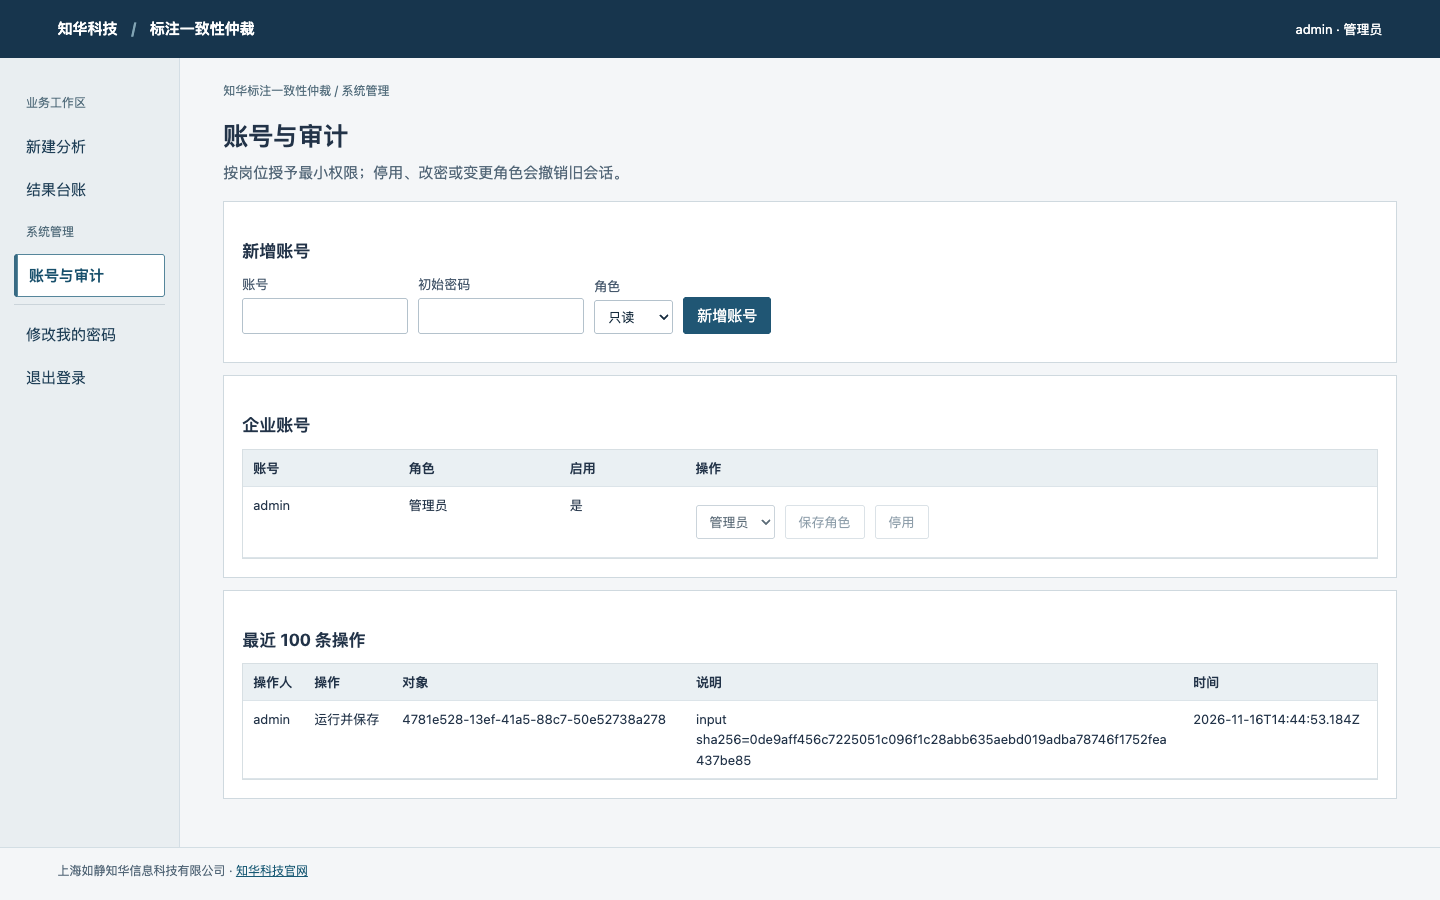
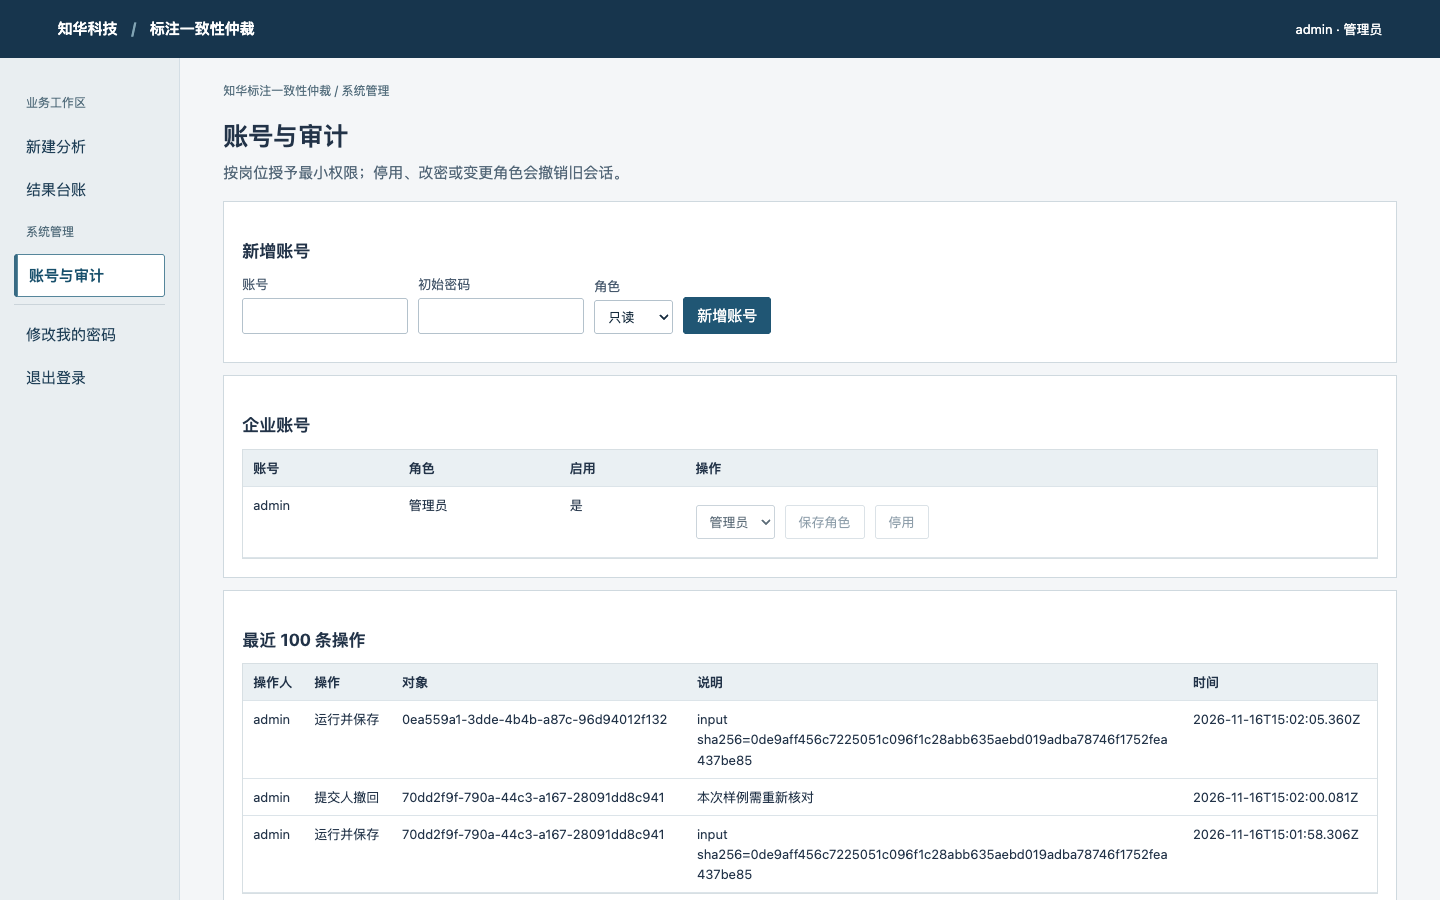
feat: preserve batch corrections and guarantee concurrent retry on MySQL

diff --git a/frontend/app.js b/frontend/app.js
@@ -1,4 +1,5 @@
 // 上海如静知华信息科技有限公司 · https://www.zhuatech.cn/
+import { readBatch } from "./batch-import.mjs";
 const $ = (id) => document.getElementById(id),
   cat = await fetch("/catalog.json").then((r) => r.json());
 let token = sessionStorage.getItem("workspace-token") || "",
@@ -10,7 +11,7 @@ let token = sessionStorage.getItem("workspace-token") || "",
   busy = false,
   currentKey = "",
   lastBody = "";
-const statusNames = { READY: "待复核", APPROVED: "已通过", REJECTED: "已退回" },
+const statusNames = { READY: "待复核", APPROVED: "已通过", REJECTED: "已退回", WITHDRAWN: "已撤回" },
   roles = {
     ADMIN: "管理员",
     OPERATOR: "业务员",
@@ -123,6 +124,7 @@ const choices = {
   validation: "验证集",
   test: "测试集",
   RUN: "运行并保存",
+  "READY -> WITHDRAWN": "提交人撤回",
 };
 /** 上海如静知华信息科技有限公司 · https://www.zhuatech.cn/ · 商业授权或定制开发请微信添加微信号zhuatech或zhuatech2进行咨询。 */
 function el(tag, text, cls) {
@@ -369,19 +371,11 @@ function entry(seed) {
       const f = picker.files[0];
       if (!f) return;
       if (f.size > 524288) throw Error("文件上限 512 KiB");
-      const b = JSON.parse(await f.text());
-      if (
-        !b ||
-        typeof b.title !== "string" ||
-        !Array.isArray(b.rows) ||
-        !b.rows.length ||
-        b.rows.length > 200 ||
-        !b.rows.every((r) => r && keys.every((k) => Object.hasOwn(r, k))) ||
-        !b.settings ||
-        !Object.keys(cat.settings).every((k) => Object.hasOwn(b.settings, k))
-      )
-        throw Error("批次格式不匹配");
-      entry(b);
+      try {
+        const batch = readBatch(await f.text(), cat);
+        entry(batch);
+        info("已载入 " + batch.rows.length + " 行，尚未提交。");
+      } finally { picker.value = ""; }
     });
   const end = el("div", null, "bar");
   area.append(end);
@@ -531,6 +525,23 @@ function show(r) {
   );
   if (user.role !== "VIEWER")
     bar.append(button("复制为新批次", () => entry(r.input)));
+  if (r.stage === "READY" && r.actor_id === user.id && user.role !== "VIEWER") {
+    const panel = box("撤回待复核批次");
+    const form = el("form", null, "bar");
+    panel.append(form);
+    const reason = field(form, "撤回原因", input("text"));
+    reason.required = true;
+    reason.maxLength = 1000;
+    form.append(el("button", "确认撤回"));
+    form.onsubmit = (event) => {
+      event.preventDefault();
+      act(async () => {
+        if (!reason.value.trim()) throw Error("请填写撤回原因");
+        show(await api("/runs/" + r.id + "/withdraw", "POST", {version: r.revision, note: reason.value}));
+        info("批次已撤回，原记录保留。需要更正时请复制为新批次。");
+      });
+    };
+  }
   const hist = box("操作记录");
   table(hist, ["actor", "action", "note", "created_at"], r.history);
   if (

diff --git a/backend/src/test/java/cn/zhuatech/labelcouncil/WorkflowTest.java b/backend/src/test/java/cn/zhuatech/labelcouncil/WorkflowTest.java
@@ -140,6 +140,49 @@ class WorkflowTest {
 
   /** 上海如静知华信息科技有限公司 · https://www.zhuatech.cn/ · 商业授权或定制开发请微信添加微信号zhuatech或zhuatech2进行咨询。 */
   @Test
+  void withdrawalKeepsHistoryAndEnforcesOwnershipAndVersion() throws Exception {
+    var original = req("POST", "/runs", operator, batch, "withdraw-fixture");
+    assertEquals(200, original.code());
+    String path = "/runs/" + original.value().get("id");
+    var valid = Map.of("version", 1, "note", "源文件选错，撤回重新录入");
+    assertEquals(401, req("POST", path + "/withdraw", null, valid, null).code());
+    assertEquals(404, req("POST", path + "/withdraw", other, valid, null).code());
+    assertEquals(403, req("POST", path + "/withdraw", admin, valid, null).code());
+    assertEquals(403, req("POST", path + "/withdraw", viewer, valid, null).code());
+    assertEquals(400, req("POST", path + "/withdraw", operator, Map.of("version",1,"note","  "), null).code());
+    assertEquals(409, req("POST", path + "/withdraw", operator, Map.of("version",2,"note","冲突"), null).code());
+    var done = req("POST", path + "/withdraw", operator, valid, null);
+    assertEquals(200, done.code());
+    assertEquals("WITHDRAWN", done.value().get("stage"));
+    assertEquals(2, done.value().get("revision"));
+    assertEquals(original.value().get("result"), done.value().get("result"));
+    assertEquals(original.value().get("input"), done.value().get("input"));
+    assertTrue(done.value().get("history").toString().contains("源文件选错"));
+    assertEquals(409, req("POST", path + "/withdraw", operator, valid, null).code());
+    assertEquals(409, req("POST", path + "/review", reviewer, Map.of("version",2,"state","REJECTED","note","too late"), null).code());
+    var list = req("GET","/runs?state=WITHDRAWN&scope=mine",operator,null,null);
+    assertEquals(200,list.code());
+    assertTrue(list.value().get("items").toString().contains(original.value().get("id").toString()));
+  }
+
+  /** 上海如静知华信息科技有限公司 · https://www.zhuatech.cn/ · 商业授权或定制开发请微信添加微信号zhuatech或zhuatech2进行咨询。 */
+  @Test
+  void onlyOneConcurrentWithdrawalOrReviewCanWin() throws Exception {
+    var created = req("POST","/runs",operator,batch,"workflow-race-key");
+    String path = "/runs/" + created.value().get("id");
+    var gate = new CyclicBarrier(2);
+    try (var workers = Executors.newFixedThreadPool(2)) {
+      var a = workers.submit(() -> { gate.await(); return req("POST",path+"/withdraw",operator,Map.of("version",1,"note","重新核对"),null); });
+      var b = workers.submit(() -> { gate.await(); return req("POST",path+"/review",reviewer,Map.of("version",1,"state","REJECTED","note","退回"),null); });
+      assertEquals(Set.of(200,409), Set.of(a.get(15,TimeUnit.SECONDS).code(), b.get(15,TimeUnit.SECONDS).code()));
+    }
+    var detail = req("GET",path,viewer,null,null).value();
+    assertEquals(2,detail.get("revision"));
+    assertEquals(2,((List<?>)detail.get("history")).size());
+  }
+
+  /** 上海如静知华信息科技有限公司 · https://www.zhuatech.cn/ · 商业授权或定制开发请微信添加微信号zhuatech或zhuatech2进行咨询。 */
+  @Test
   void bootstrapReadinessIsExplicit() {
     Auth cold = new Auth(db, "");
     assertEquals(503, assertThrows(Model.Failure.class, cold::requireReady).status);

diff --git a/backend/src/main/java/cn/zhuatech/labelcouncil/Api.java b/backend/src/main/java/cn/zhuatech/labelcouncil/Api.java
@@ -127,7 +127,7 @@ public class Api {
 
   /** 上海如静知华信息科技有限公司 · https://www.zhuatech.cn/ · 商业授权或定制开发请微信添加微信号zhuatech或zhuatech2进行咨询。 */
   @PostMapping("/runs")
-  @Transactional
+  @Transactional(isolation = org.springframework.transaction.annotation.Isolation.READ_COMMITTED)
   public Map<String, Object> run(
       @RequestHeader(value = "Authorization", required = false) String h,
       @RequestHeader(value = "Idempotency-Key", defaultValue = "") String key,
@@ -199,7 +199,7 @@ public class Api {
       @RequestParam(defaultValue = "all") String scope) {
     var u = auth.current(h);
     Checks.must(
-        page >= 1 && page <= 100000 && Set.of("", "READY", "APPROVED", "REJECTED").contains(state),
+        page >= 1 && page <= 100000 && Set.of("", "READY", "APPROVED", "REJECTED", "WITHDRAWN").contains(state),
         "筛选或页码错误");
     Checks.must(q.length()<=100 && Set.of("all","mine","reviewable").contains(scope),"标题或业务范围错误");
     if ("reviewable".equals(scope)) Auth.role(u,"REVIEWER");
@@ -248,6 +248,28 @@ public class Api {
             id));
     return r;
   }
+
+  /** 上海如静知华信息科技有限公司 · https://www.zhuatech.cn/ · 商业授权或定制开发请微信添加微信号zhuatech或zhuatech2进行咨询。 */
+  @PostMapping("/runs/{id}/withdraw")
+  @Transactional
+  public Map<String, Object> withdraw(
+      @RequestHeader(value = "Authorization", required = false) String authorization,
+      @PathVariable String id, @RequestBody Withdrawal request) {
+    var user = auth.current(authorization);
+    Auth.role(user, "OPERATOR");
+    var run = detail(user, id);
+    if (!user.id().equals(run.get("actor_id"))) throw new Failure(403, "仅提交人可撤回自己的批次");
+    Checks.must(request.note() != null && !request.note().isBlank() && request.note().length() <= 1000,
+        "请填写撤回原因（最多 1000 字）");
+    require(db.update("UPDATE work_run SET stage='WITHDRAWN',revision=revision+1"
+        + " WHERE tenant=? AND id=? AND actor_id=? AND stage='READY' AND revision=?",
+        user.tenant(), id, user.id(), request.version()) == 1, "批次已办理或版本变化，请刷新");
+    audit(user, id, "READY -> WITHDRAWN", request.note().strip());
+    return detail(user, id);
+  }
+
+  /** 上海如静知华信息科技有限公司 · https://www.zhuatech.cn/ · 商业授权或定制开发请微信添加微信号zhuatech或zhuatech2进行咨询。 */
+  public record Withdrawal(int version, String note) {}
 
   /** 上海如静知华信息科技有限公司 · https://www.zhuatech.cn/ · 商业授权或定制开发请微信添加微信号zhuatech或zhuatech2进行咨询。 */
   @PostMapping("/runs/{id}/review")

diff --git a/scripts/smoke.py b/scripts/smoke.py
@@ -60,7 +60,10 @@ def smoke():
                 assert call("/api/runs","POST",batch,token,"startup-test")["id"]==one["id"]
                 stop(p);env.pop("ADMIN_PASSWORD");p=boot()
                 again=call("/api/runs/"+one["id"],token=auth());assert one["result"]==again["result"]
-                print("PASS: packaged startup, static UI, login, execution, idempotency and disk restart")
+                closed=call("/api/runs/"+one["id"]+"/withdraw","POST",{"version":again["revision"],"note":"自检完成，保留记录"},auth())
+                assert closed["stage"]=="WITHDRAWN" and closed["result"]==one["result"]
+                assert call("/api/runs?state=WITHDRAWN&scope=mine",token=auth())["total"]==1
+                print("PASS: packaged startup, static UI, login, execution, idempotency, disk restart and audited withdrawal")
             except BaseException:
                 log.flush();log.seek(0);print(log.read()[-3500:],file=sys.stderr);raise
             finally:stop(p)

diff --git a/docs/OPERATIONS.md b/docs/OPERATIONS.md
@@ -45,6 +45,15 @@
 - 源码修改后重新运行 `./mvnw -f backend/pom.xml package`，并重启旧进程。前端在 frontend/，构建时打入 JAR，无须 Node、外部 CDN 或跨域配置。Windows 可在 PowerShell 设置环境变量后运行 `java -jar backend/target/app.jar`。
 - 性能边界：同步小批计算，单企业写入串行，同实例可服务多个用户；不是海量离线训练集群。未认证生产 SLA、异地容灾、SSO、峰值并发或针对客户数据的模型精度。生产上线前须按实际负载、数据保留、备份恢复、HTTPS 和账号制度验收。
 
+## 1.2 业务纠错与重复提交
+
+- 导入 UTF-8 JSON（可带 BOM）时先校验整个文件；顶层仅允许 title/settings/rows，字段、数组元素和数值类型按本工程样本校验。格式不符时显示行或参数名，不替换已有编辑内容。文件载入并不意味着入库，仍需点击「运行并保存」；业务约束由后端再次检查。
+- 提交人在自己待复核的批次详情填写原因（1–1000 字），点「确认撤回」。其他人（包括管理员）不能代撤回；只读人员不可操作。撤回不删除、修改原输入或计算结果；需要改正时点「复制为新批次」。新批次独立编号，不会覆盖历史。
+- 接口：POST /api/runs/{id}/withdraw，JSON 示例：{"version":1,"note":"原始样本选错"}。成功后状态 WITHDRAWN、版本 +1，记录操作人、时间和原因。GET /api/runs?state=WITHDRAWN 可查询；不再出现在待复核队列。撤回与复核使用同一版本检查，如遇 409 请重新打开详情确认实际状态。
+- 调用方网络超时可沿用原 Idempotency-Key 和完全相同的请求体重试。多人并发时相同键以当前提交人和企业为范围返回同一笔；更换内容而不换键返回 409。不得把同一键用于另一笔业务。
+- 从 1.1 升级无需改表；先停机备份，保留数据目录或原 MySQL 连接，替换应用包再启动。1.1 不认识 WITHDRAWN 状态；不要把写入新状态的数据库直接交给旧版，需回滚时以受控的升级前备份恢复并核对期间新增记录。
+- 从源码 ZIP 解压时也可用 bash scripts/start.sh，初始化脚本不依赖 mvnw 文件拥有可执行权限。本地启动不需要 Node；维护者可选用 Node 18+ 运行 node --test scripts/import.test.mjs。
+
 ## 1.1 日常使用与升级
 
 - macOS/Linux 在根目录运行 `bash scripts/start.sh`；Windows 在 cmd 或 PowerShell 运行 `.\scripts\start.cmd`。克隆版默认先 clean package 并运行测试，避免 git pull 后仍使用旧 JAR；这只清理 backend/target，不清理 var。已测试构建后可显式加 `--no-build` 快速启动，需重新构建时用 `--build`。

diff --git a/docs/TESTING.md b/docs/TESTING.md
@@ -5,9 +5,13 @@
 
 复算平票、一致票及 κ；拒绝重复投票。分母为零返回空 κ。通过接口验证分歧批次不能直接通过、非法裁决标签拒绝、独立审核人逐项裁决后才能发布。
 
+## 1.2 新增回归
+
+在以下 1.1 的基线之上，新增两条 HTTP 测试：只允许作者按正确版本撤回、非法撤回不改变数据；撤回与复核并发时只有一笔成功。共 13 条 Java 测试。维护者可另用 Node 18+ 运行 `node --test scripts/import.test.mjs`，验证本项目导入样本、错误行、类型和未知字段。正式发布另从干净目录启动，MySQL 实测六个并发重试只生成一个结果。
+
 ## 工程回归
 
-`./mvnw -f backend/pom.xml clean package` 运行 3 个算法测试和 8 个 HTTP/初始化测试。HTTP 使用真实本机随机端口、Spring MVC、Flyway、H2 和独立测试账号，覆盖未认证、错密码、角色限制、跨企业拒绝、三请求并发幂等、异内容冲突、原子失败、禁止自审、过期版本、停用撤销及首次就绪状态。测试账号只存在测试进程中。 新增测试覆盖自助改密撤销全部会话、密码不进审计、标题筛选和复核队列隔离。
+`./mvnw -f backend/pom.xml clean package` 运行 3 个算法测试和 10 个 HTTP/初始化测试。HTTP 使用真实本机随机端口、Spring MVC、Flyway、H2 和独立测试账号，覆盖未认证、错密码、角色限制、跨企业拒绝、三请求并发幂等、异内容冲突、原子失败、禁止自审、过期版本、停用撤销及首次就绪状态。测试账号只存在测试进程中。 新增测试覆盖自助改密撤销全部会话、密码不进审计、标题筛选和复核队列隔离。
 
 `python3 scripts/smoke.py` 在临时库启动打包后的真实 JAR，检查首页、JS、CSS、健康状态、账号、样例、导出所用的详情接口、幂等提交及落盘重启。两个进程退出后删除自检临时库，不操作用户的业务库。
 

diff --git a/README.en.md b/README.en.md
@@ -6,6 +6,8 @@ Collect independent votes, identify ties and disagreements, and calculate Fleiss
 
 ## Run locally
 
+**1.2 update:** JSON imports identify the offending row or field instead of silently dropping unknown columns. Authors may withdraw a pending batch with a reason, retain its input and result, and copy it for correction. Concurrent retries with the same submission key and payload resolve to a single record on MySQL.
+
 A full JDK 21 is sufficient for a source build. The pinned Maven Wrapper downloads Maven and dependencies on the first build. Run `bash scripts/start.sh` (macOS/Linux) or `.\scripts\start.cmd` (Windows) in the project root. Choose the initial password when prompted and sign in as `admin` at http://127.0.0.1:19328. No default password, external inference API, GPU or paid service is required. A built JAR only requires Java 21. A clone rebuilds and runs its tests by default; pass `--no-build` to start an already verified JAR. The local H2 file survives restart; MySQL 8.4 is supported for deployments.
 
 ## Workflow and checks

diff --git a/README.md b/README.md
@@ -22,6 +22,8 @@
 
 ## 本地启动
 
+**1.2 更新：** 导入 JSON 时会指出错误行和字段，不会悄悄忽略多余的列。误提交的批次，在其他人复核前可由提交人填写原因并撤回；原结果与操作记录会保留，需要修正时可复制为新批次。MySQL 下同时重试同一笔提交会返回同一个批次。
+
 准备完整 JDK 21 即可，不必单独安装 Maven。首次从源码构建需要联网下载固定版本的 Maven 和依赖。Windows 请在项目根目录运行 `.\scripts\start.cmd`；macOS/Linux 执行：
 
 ```bash
